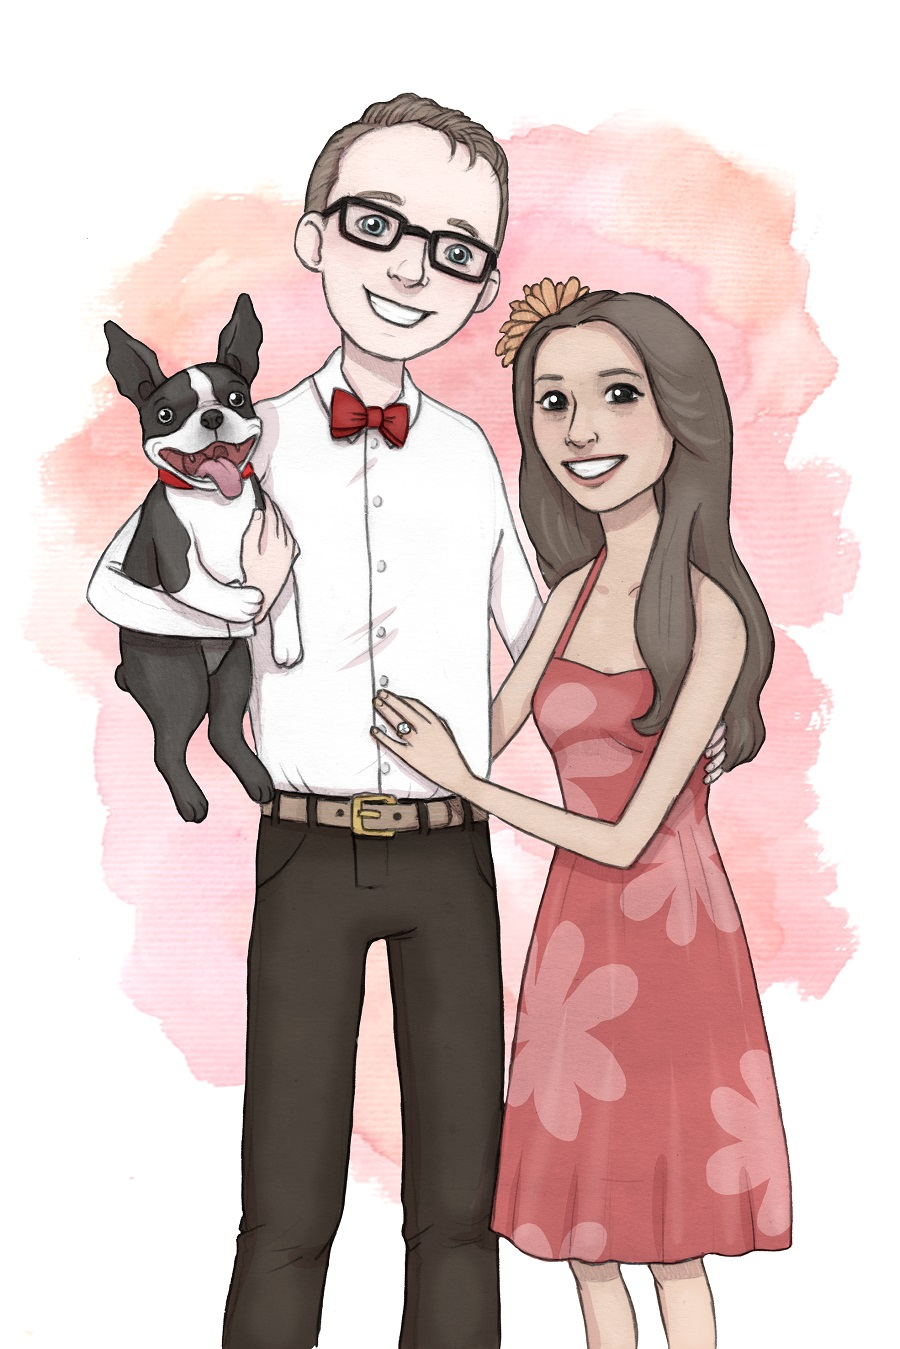
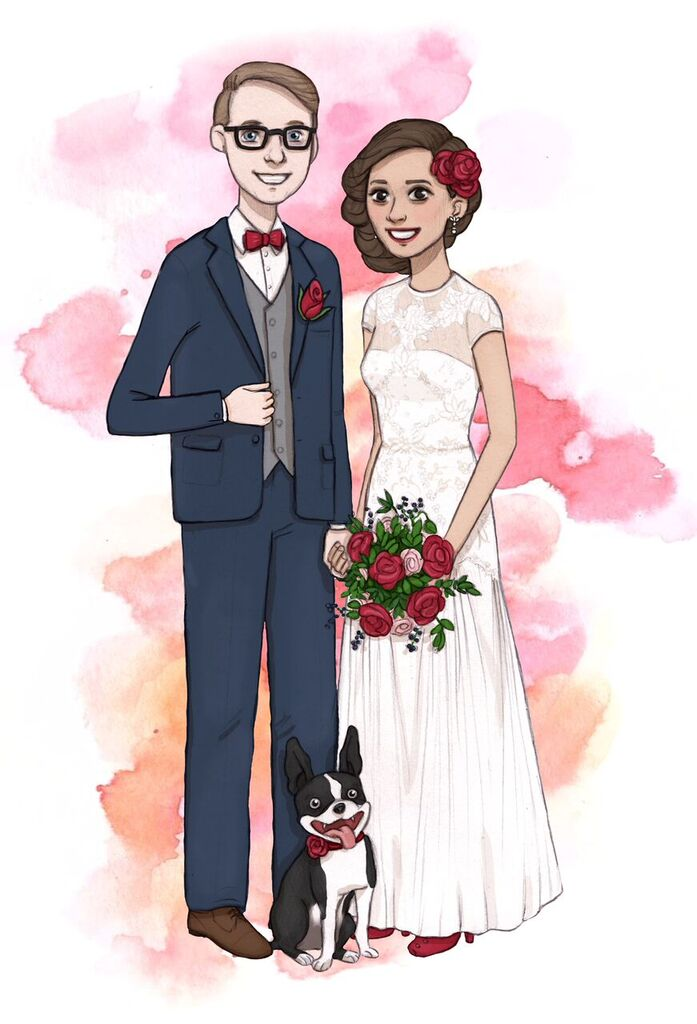
Updated because we're married!!!

diff --git a/index.html b/index.html
@@ -39,10 +39,7 @@
 				<nav id="nav">
 						<a href="#me" class="icon fa-heart-o active"><span>us</span></a>
 						<a href="#party" class="icon fa-map-marker"><span>where</span></a>
-						<a href="#stay" class="icon fa-bed"><span>stay</span></a>
-						<a href="#registry" class="icon fa-gift"><span>registry</span></a>
-						<a href="#rsvp" class="icon fa-envelope-o"><span>rsvp</span></a>
-					</nav>
+				</nav>
 
 				<!-- Main -->
 					<div id="main">
@@ -68,11 +65,11 @@
 										var futureDate  = new Date("2017-09-30T16:00:00-08:00");
 
 										// Calculate the difference in seconds between the future and current date
-										var diff = futureDate.getTime() / 1000 - currentDate.getTime() / 1000;
+										var diff = currentDate.getTime() / 1000 - futureDate.getTime() / 1000;
 										
 										var clock = $('.clock').FlipClock(diff, {
 											clockFace: 'DailyCounter',
-											countdown: true,
+											countdown: false,
 											showSeconds: false
 										});
 									</script>
@@ -90,67 +87,8 @@
 							<p>
 								The Historic Griffith House is located in the gardens of the First Congregational Church of Anaheim <br>515 N State College Blvd, Anaheim, CA 92805
 							</p>
-							<blockquote><b>Directions from Los Angeles:</b><br>Take the South I-5 to the East 91 Freeway and exit State College.<br>Turn right onto State College, turn right on E. Sycamore St. </blockquote>
-							<blockquote><b>Directions from Riverside:</b> <br>Take West 91 Freeway and exit State College. Turn left onto State College, turn right on E. Sycamore St.  </blockquote>
-							<blockquote><b>Directions from Orange County:</b> <br>Take North I-5 Freeway to the North 57 Freeway and exit Lincoln Ave. Turn left at Lincoln Ave and right onto State College. U-Turn at La Palma and turn right on E. Sycamore St.  </blockquote>
 							<iframe src="https://www.google.com/maps/embed?pb=!1m18!1m12!1m3!1d3313.6784546976533!2d-117.89213148447153!3d33.846402035996135!2m3!1f0!2f0!3f0!3m2!1i1024!2i768!4f13.1!3m3!1m2!1s0x80dcd642b39e8953%3A0x8066e20998a49102!2sThe+Griffith+House!5e0!3m2!1sen!2sus!4v1485129802978" width="100%" height="300" frameborder="0" style="border:0" allowfullscreen></iframe>
 							</article>
-
-						<!-- stay -->
-							<article id="stay" class="panel">
-								<header>
-									<h2>Accommodations</h2>
-										<br>
-										<h3>Transportation</h3>
-											<p>A limited number of UBER codes will be available to share for rides after the reception. Additional details to follow. Be safe and DO NOT DRINK AND DRIVE!</p>
-										
-										<br>
-										<h3>Hotels</h3>
-											<p>When booking please use the code <b>G-PW17</b> to receive the special rate, which includes parking and breakfast.</b></p>
-											<br>
-											<h5>Hyatt Place Anaheim - (714) 750-4000 - $$</h5>
-												<iframe src="https://www.google.com/maps/embed?pb=!1m18!1m12!1m3!1d6631.244232803869!2d-117.91983426843461!3d33.796255242668906!2m3!1f0!2f0!3f0!3m2!1i1024!2i768!4f13.1!3m3!1m2!1s0x0%3A0x30b9eaaf8718ce03!2sHyatt+Place+at+Anaheim+Resort%2FConvention+Center!5e0!3m2!1sen!2sus!4v1492875596327" width="100%" height="300" frameborder="0" style="border:0" allowfullscreen></iframe>
-											<h5>Cortona Inn and Suites - (714) 971-5015 - $</h5>
-												<iframe src="https://www.google.com/maps/embed?pb=!1m18!1m12!1m3!1d3315.54529706851!2d-117.91792104902862!3d33.798238438424846!2m3!1f0!2f0!3f0!3m2!1i1024!2i768!4f13.1!3m3!1m2!1s0x80dcd7e7a4aabb23%3A0x6aa82ebdd524e1a!2sCortona+Inn+and+Suites+Anaheim+Resort!5e0!3m2!1sen!2sus!4v1492875687329" width="100%" height="300" frameborder="0" style="border:0" allowfullscreen></iframe>
-												
-								</header>
-							</article>
-						<!-- registry -->
-							<article id="registry" class="panel">
-							<header class="major">
-							<h2>Registry Information</h2>
-							<p><em>You are my today and all of my tomorrows - Leo Christopher</em></p>
-						</header>
-						<div class="box alt">
-							<div class="row uniform">
-								<section class="4u 6u(medium) 12u$(xsmall)">
-									<span class="icon alt major fa-amazon"></span>
-									<h3><a href="https://www.amazon.com/wedding/share/chrisandroxypetty">Amazon</a></h3>
-									<p>Enable our one-click shopping habit.</p>
-								</section>
-								<section class="4u 6u$(medium) 12u$(xsmall)">
-									<span class="icon alt major fa-shopping-basket"></span>
-									<h3><a href="
-https://www-secure.target.com/gift-registry/giftgiver?registryId=62c3e59a6c524ab19d144f71296d14d0#1">Target</a></h3>
-									<p>Target. . . . because . . . target.</p>
-								</section>
-								<section class="4u 6u$(medium) 12u$(xsmall)">
-									<span class="icon alt major fa-shopping-bag"></span>
-									<h3><a href="https://www.google.com/url?q=https%3A%2F%2Fm.macys.com%2Fwgl%2Fregistry%2Fguest%2F6764247&sa=D&sntz=1&usg=AFQjCNFU6DFwiZYJ-K7-v0hW6-CBXCL4gA">Macy's</a></h3>
-									<p>Macy's. That's required right?</p>
-								</section>
-								<p><em>To send cards and other well wishes send an email to <a href="mailto:cards@chrisandroxypetty.com">cards@chrisandroxypetty.com</a></em> for address details.</p>
-							</div>
-						</div>
-							</article>
-						<!-- rsvp -->
-							<article id="rsvp" class="panel">
-								<header>
-									<iframe src="https://docs.google.com/forms/d/e/1FAIpQLSfO5Wmn6WFwXCcXuHQreqhjxdgoDUm_xdc_AQZ516u3-NUrfw/viewform?embedded=true" width="100%" height="900" frameborder="0" marginheight="0" marginwidth="0">Loading...</iframe>
-								</header>
-								
-							</article>
-					</div>
 
 				<!-- Footer -->
 					<div id="footer">
